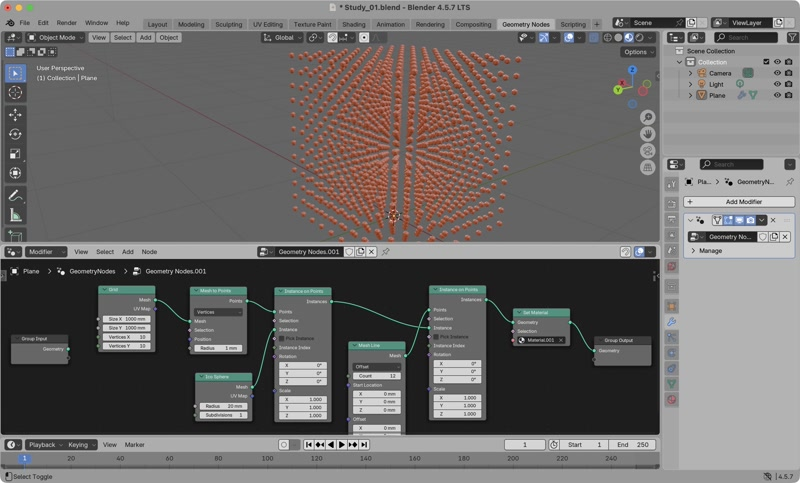
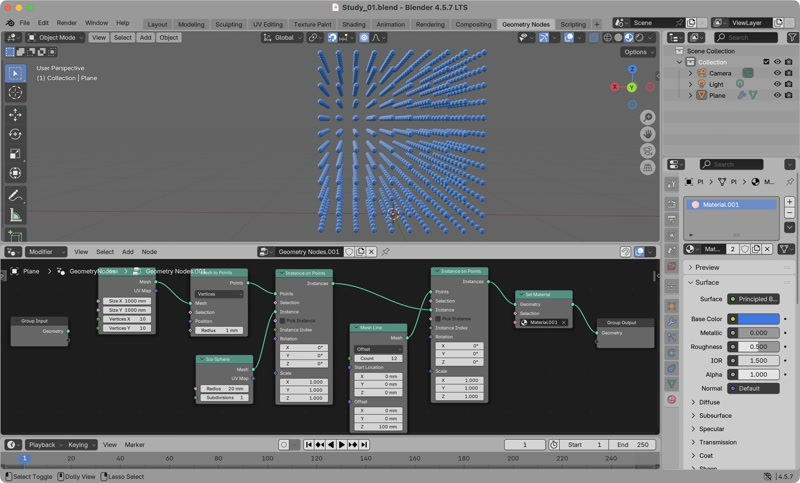
gn

diff --git a/_site/docs/lab/blender_gn.html b/_site/docs/lab/blender_gn.html
@@ -36,31 +36,33 @@
       <div class="wrapper">
         <h1 id="blender-geometry-nodes">Blender Geometry Nodes</h1>
 
-<p>2026 | Computational design | Blender</p>
+<p>2026-ongoing | Computational design | Blender</p>
 
-<p>I have been interested in Blender Geometry Nodes, especially because of its strong rendering capabilities, but its steep learning curve has discouraged me from learning. However, I heard that LLMs like Gemini can become a good coach, that finally encouraged me to learn…</p>
+<p>I finally started learning Blender Geometry Nodes, encouraged by the idea of using LLMs as a coach.</p>
 
 <h3 id="basics">Basics</h3>
 <ul>
   <li>Blender version: <a href="https://www.blender.org/download/lts/4-5/">Blender 4.5 LTS</a> (the last Intel Mac compatible)</li>
-  <li>Geometry nodes are “modifier”, run on an object.</li>
+  <li>Geometry nodes are “modifier”, run on an object</li>
+  <li>Go to <code class="language-plaintext highlighter-rouge">Modifier</code> at the right, <code class="language-plaintext highlighter-rouge">Add Modifier</code> &gt; <code class="language-plaintext highlighter-rouge">Geometry Nodes</code></li>
+  <li>Group Input &gt; <code class="language-plaintext highlighter-rouge">Processes</code> &gt; Group output</li>
   <li><code class="language-plaintext highlighter-rouge">Shift + A</code>: Add modifier</li>
   <li><code class="language-plaintext highlighter-rouge">X</code>: delete</li>
-  <li>Group Input &gt; <code class="language-plaintext highlighter-rouge">Processes</code> &gt; Group output</li>
+  <li>To disconnect, grab a connector and release</li>
 </ul>
 
 <ol>
   <li>2D grid
     <ul>
       <li><code class="language-plaintext highlighter-rouge">Grid</code>, <code class="language-plaintext highlighter-rouge">Mesh to Points</code>: generate a plane mesh and turn it into points</li>
-      <li><code class="language-plaintext highlighter-rouge">Instance on Points</code>: generate instance (lightweight references) on points &gt; 2D grid
- <img src="/docs/images/lab/blender_gn/gn_lattice.jpg" alt="" /></li>
     </ul>
   </li>
   <li>3D lattice
     <ul>
       <li><code class="language-plaintext highlighter-rouge">Mesh Line</code>, another <code class="language-plaintext highlighter-rouge">Instance on Points</code>: to copy Z axis &gt; 3D lattice</li>
-      <li><code class="language-plaintext highlighter-rouge">Set Material</code></li>
+      <li><code class="language-plaintext highlighter-rouge">Instance on Points</code>: generate instance (lightweight references) on points &gt; 2D grid</li>
+      <li><code class="language-plaintext highlighter-rouge">Set Material</code>
+ <img src="/docs/images/lab/blender_gn/gn_lattice.jpg" alt="" /></li>
     </ul>
   </li>
 </ol>

diff --git a/_site/docs/lab.html b/_site/docs/lab.html
@@ -66,7 +66,7 @@
       <img src="/docs/images/lab/blender_gn/gn_lattice.jpg" alt="" />
     </div>
     <div class="caption"><b>Blender Geometry Nodes</b></div>
-    <div class="caption">2026 | CN | B3D</div>
+    <div class="caption">2026-ongoing | CN | B3D</div>
   </a>
 
   <a href="/docs/lab/cellular_automata" class="grid-item">

diff --git a/docs/lab/blender_gn.md b/docs/lab/blender_gn.md
@@ -4,25 +4,27 @@ layout: default
 
 # Blender Geometry Nodes
 
-2026 \| Computational design \| Blender
+2026-ongoing \| Computational design \| Blender
 
-I have been interested in Blender Geometry Nodes, especially because of its strong rendering capabilities, but its steep learning curve has discouraged me from learning. However, I heard that LLMs like Gemini can become a good coach, that finally encouraged me to learn...
+I finally started learning Blender Geometry Nodes, encouraged by the idea of using LLMs as a coach.
 
 ### Basics 
 - Blender version: [Blender 4.5 LTS](https://www.blender.org/download/lts/4-5/) (the last Intel Mac compatible)
-- Geometry nodes are "modifier", run on an object.
+- Geometry nodes are "modifier", run on an object
+- Go to `Modifier` at the right, `Add Modifier` > `Geometry Nodes`
+- Group Input > `Processes` > Group output
 - `Shift + A`: Add modifier
 - `X`: delete
-- Group Input > `Processes` > Group output
-
+- To disconnect, grab a connector and release
 
 1. 2D grid
   - `Grid`, `Mesh to Points`: generate a plane mesh and turn it into points
-  - `Instance on Points`: generate instance (lightweight references) on points > 2D grid
-    ![](/docs/images/lab/blender_gn/gn_lattice.jpg)
 1. 3D lattice
   - `Mesh Line`, another `Instance on Points`: to copy Z axis > 3D lattice
+  - `Instance on Points`: generate instance (lightweight references) on points > 2D grid
   - `Set Material`
+    ![](/docs/images/lab/blender_gn/gn_lattice.jpg)
+
 
 ### Ref.
 

diff --git a/docs/lab.md b/docs/lab.md
@@ -35,7 +35,7 @@ title: LAB
       <img src="/docs/images/lab/blender_gn/gn_lattice.jpg" alt="">
     </div>
     <div class="caption"><b>Blender Geometry Nodes</b></div>
-    <div class="caption">2026 | CN | B3D</div>
+    <div class="caption">2026-ongoing | CN | B3D</div>
   </a>
 
   <a href="/docs/lab/cellular_automata" class="grid-item">
